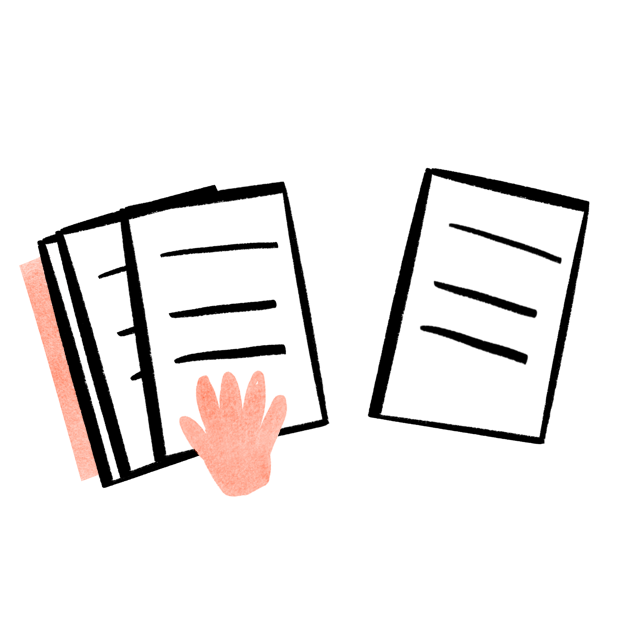
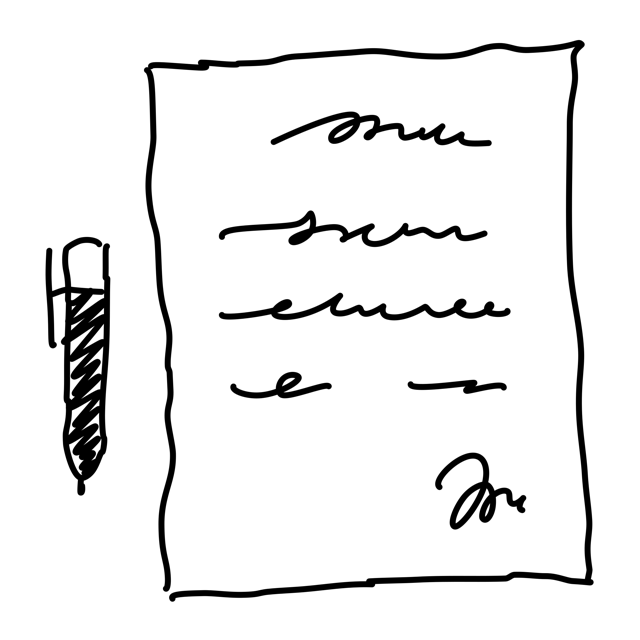
Re-theme to the Seline design system + swap illustrations
Follows DESIGN (2).md — a "quiet analyst's desk" aesthetic: warm-stone
canvas, one cyan accent, Inter throughout, pill-shaped controls, flat
hairline-bordered cards.

Theme (globals.css tokens, unchanged names so components didn't need
touching):
- Canvas #fafaf9, card/hover surfaces white, hairline borders #e8e6e5
- --font-serif (the "Mizan" wordmark + h1 utility) now points to Inter
  Tight instead of Cormorant Garamond; --font-mono now points to Inter
  too, so the small mono-labelled badges/numbers fall in line with the
  design's "only two typefaces" rule without per-component edits
- Display headings dropped to weight 400 (Seline: never bump weight for
  emphasis) with tight negative tracking
- Cyan #3ba6f1 primary CTA (was coral) — pill radius, hover to #3398e1
  (also applied to the 15 buttons that previously used opacity-based hover)
- Card radius 10px, input radius 6px (was 12/8)
- Environment/classification signal colours kept as a functional
  exception (the design is otherwise strictly monochrome-plus-cyan) but
  re-tuned: PUBLIC now rides the brand cyan itself, others stay muted
  stone-adjacent hues

Illustrations — replaced the anthropic-claude-hand-drawn set with Icons8
Ouch's "rough-sketch" style: monochrome hand-sketched ink, no colour
fills, matching Seline's outline-only imagery language. Same 7 file
paths overwritten, so no component code changed; ouch.json updated with
the new ids/headings. The small inline scan icon (InspectingStrip +
[…]

diff --git a/src/app/globals.css b/src/app/globals.css
@@ -1,53 +1,55 @@
 @import "tailwindcss";
 
 @theme {
-  /* Editorial pairing — serif display, humanist sans body, mono for data */
-  --font-serif: "Cormorant Garamond", "Tiempos Headline", Garamond, "Times New Roman", serif;
+  /* Quiet analyst's desk — warm stone canvas, one cyan accent, Inter throughout.
+     Token names stay stable across theme changes; only values move. */
+  --font-serif: "Inter Tight", "Inter", ui-sans-serif, system-ui, sans-serif;  /* display/headings/wordmark */
   --font-sans:  "Inter", -apple-system, BlinkMacSystemFont, "Segoe UI", Roboto, sans-serif;
-  --font-mono:  "JetBrains Mono", ui-monospace, "SF Mono", monospace;
+  --font-mono:  "Inter", -apple-system, BlinkMacSystemFont, "Segoe UI", Roboto, sans-serif;  /* no monospace in this system */
 
-  /* Surfaces — warm tinted cream, never pure white */
-  --color-base:      #faf9f5;  /* page floor */
-  --color-surface:   #f5f0e8;  /* soft bands, section dividers */
-  --color-raised:    #efe9de;  /* cards, chips */
-  --color-overlay:   #fdfcf8;  /* panels, popovers — a hair above canvas */
-  --color-line:      #e6dfd8;  /* hairline on cream */
-  --color-line-soft: #ebe6df;  /* barely-visible divider */
+  /* Surfaces — warm stone, never pure-white canvas */
+  --color-base:      #fafaf9;  /* page floor — stone canvas */
+  --color-surface:   #f5f4f3;  /* soft bands, nav background */
+  --color-raised:    #ffffff;  /* cards, chips, hover fills */
+  --color-overlay:   #ffffff;  /* panels, popovers */
+  --color-line:      #e8e6e5;  /* hairline — the primary structural device */
+  --color-line-soft: #efedeb;  /* barely-visible divider */
 
-  /* Dark navy product surfaces */
-  --color-dark:          #181715;
-  --color-dark-elevated: #252320;
-  --color-dark-soft:     #1f1e1b;
-  --color-on-dark:       #faf9f5;
-  --color-on-dark-soft:  #a09d96;
+  /* Dark inverted surfaces — used sparingly (diode/active-step chrome) */
+  --color-dark:          #1c1917;
+  --color-dark-elevated: #292524;
+  --color-dark-soft:     #24211f;
+  --color-on-dark:       #fafaf9;
+  --color-on-dark-soft:  #a8a29e;
 
-  /* Text — warm ink */
-  --color-ink:       #141413;
-  --color-ink-mid:   #3d3d3a;
-  --color-ink-dim:   #6c6a64;
-  --color-ink-faint: #8e8b82;
+  /* Text — warm stone scale */
+  --color-ink:       #0c0a09;
+  --color-ink-mid:   #44403c;
+  --color-ink-dim:   #78716c;
+  --color-ink-faint: #a8a29e;
 
-  /* Brand — coral. Scarce on buttons, generous on full-bleed callouts. */
-  --color-primary:        #cc785c;
-  --color-primary-active:  #a9583e;
-  --color-primary-soft:   #cc785c1f;
+  /* Brand — a single cyan signal. Scarce: one filled CTA per view. */
+  --color-primary:        #3ba6f1;
+  --color-primary-active:  #3398e1;
+  --color-primary-soft:   #3ba6f11f;
 
-  /* Environment + classification signals — warm-harmonised, kept distinct */
-  --color-cloud:       #4f96a4;            /* PUBLIC · Public Cloud */
-  --color-cloud-soft:  #4f96a41f;
-  --color-official:      #c1863c;          /* OFFICIAL */
-  --color-official-soft: #c1863c1f;
-  --color-onprem:      #5c8b50;            /* CONFIDENTIAL · Sovereign On-Prem */
-  --color-onprem-soft: #5c8b501f;
-  --color-airgap:      #4a4440;            /* SECRET · Air-Gapped Enclave */
-  --color-airgap-soft: #4a44401a;
+  /* Environment + classification signals — functional, not decorative.
+     Cloud rides the brand cyan; the rest stay muted stone-adjacent hues. */
+  --color-cloud:       #3398e1;            /* PUBLIC · Public Cloud */
+  --color-cloud-soft:  #3ba6f11a;
+  --color-official:      #a3814a;          /* OFFICIAL */
+  --color-official-soft: #a3814a1a;
+  --color-onprem:      #64815a;            /* CONFIDENTIAL · Sovereign On-Prem */
+  --color-onprem-soft: #64815a1a;
+  --color-airgap:      #1c1917;            /* SECRET · Air-Gapped Enclave */
+  --color-airgap-soft: #1c19171a;
 
   /* Status */
-  --color-deny:      #c64545;
-  --color-deny-soft: #c645451a;
-  --color-warn:      #c99a1f;
-  --color-warn-soft: #c99a1f1f;
-  --color-ok:        #5c8b50;
+  --color-deny:      #c1443c;
+  --color-deny-soft: #c1443c1a;
+  --color-warn:      #b8902b;
+  --color-warn-soft: #b8902b1a;
+  --color-ok:        #64815a;
 }
 
 @layer base {
@@ -57,15 +59,15 @@
     font-family: var(--font-sans);
     -webkit-font-smoothing: antialiased;
   }
-  /* Serif display — weight 500, negative tracking. The editorial voice. */
+  /* Display — weight 400, tight negative tracking. Authority through restraint. */
   h1, h2, h3, .mz-display {
     font-family: var(--font-serif);
-    font-weight: 500;
-    letter-spacing: -0.015em;
+    font-weight: 400;
+    letter-spacing: -0.02em;
   }
   ::-webkit-scrollbar { width: 8px; height: 8px; }
-  ::-webkit-scrollbar-thumb { background: #d9d0c4; border-radius: 4px; }
-  ::-webkit-scrollbar-thumb:hover { background: #c7bcac; }
+  ::-webkit-scrollbar-thumb { background: #d6d3d1; border-radius: 4px; }
+  ::-webkit-scrollbar-thumb:hover { background: #c2beba; }
   ::-webkit-scrollbar-track { background: transparent; }
   ::selection { background: var(--color-primary-soft); }
 }
@@ -75,47 +77,48 @@
   .mz-label {
     font-family: var(--font-mono);
     font-size: 10px;
-    letter-spacing: 0.14em;
+    font-weight: 500;
+    letter-spacing: 0.1em;
     text-transform: uppercase;
     color: var(--color-ink-dim);
   }
   .mz-panel {
     background: var(--color-overlay);
     border: 1px solid var(--color-line);
-    border-radius: 12px;
+    border-radius: 10px;
   }
   .mz-field {
-    background: var(--color-base);
+    background: var(--color-raised);
     border: 1px solid var(--color-line);
-    border-radius: 8px;
+    border-radius: 6px;
     color: var(--color-ink);
     outline: none;
   }
   .mz-field:focus {
     border-color: var(--color-primary);
-    box-shadow: 0 0 0 3px var(--color-primary-soft);
+    box-shadow: 0 0 0 2px var(--color-primary-soft);
   }
-  /* Coral primary CTA */
+  /* Cyan primary CTA — pill-shaped, the one filled chromatic element */
   .mz-btn {
     background: var(--color-primary);
     color: #fff;
-    border-radius: 8px;
+    border-radius: 9999px;
     font-weight: 500;
     transition: background-color 0.15s ease;
   }
   .mz-btn:hover { background: var(--color-primary-active); }
   .mz-btn:active { background: var(--color-primary-active); }
   .mz-btn:disabled {
-    background: var(--color-primary-disabled, #e6dfd8);
-    color: var(--color-ink-dim);
+    background: var(--color-line);
+    color: var(--color-ink-faint);
     cursor: not-allowed;
   }
-  /* Elevation for popovers — warm, minimal */
+  /* Elevation for popovers — flat card + soft lift, no heavy shadow */
   .mz-pop {
     background: var(--color-overlay);
     border: 1px solid var(--color-line);
-    box-shadow: 0 1px 3px rgba(20, 20, 19, 0.08),
-                0 12px 32px rgba(20, 20, 19, 0.12);
+    box-shadow: 0 4px 16px rgba(12, 10, 9, 0.06),
+                0 1px 2px rgba(12, 10, 9, 0.04);
   }
 }
 

diff --git a/src/components/admin/PolicyTable.tsx b/src/components/admin/PolicyTable.tsx
@@ -48,7 +48,7 @@ export default function PolicyTable({ policies, signals }: { policies: PolicyVie
           type="button"
           onClick={() => setEditing("new")}
           className="rounded-full bg-primary px-3.5 py-1.5 font-mono text-[11px] font-semibold tracking-[0.08em]
-                     text-white transition hover:opacity-90"
+                     text-white transition hover:bg-primary-active"
         >
           + NEW RULE
         </button>
@@ -214,7 +214,7 @@ function PolicyForm({ initial, signals, onDone, defaultPriority }: {
       <div className="flex items-center gap-3 pt-1">
         <button type="submit" disabled={pending}
                 className="rounded-full bg-primary px-4 py-1.5 font-mono text-[11px] font-semibold tracking-[0.08em]
-                           text-white transition hover:opacity-90 disabled:opacity-60">
+                           text-white transition hover:bg-primary-active disabled:opacity-60">
           {pending ? "SAVING…" : "SAVE RULE"}
         </button>
         <button type="button" onClick={onDone}

diff --git a/src/app/login/page.tsx b/src/app/login/page.tsx
@@ -24,7 +24,7 @@ export default async function LoginPage() {
         />
         <div className="relative">
           <div className="flex items-baseline gap-3">
-            <span className="font-serif text-[30px] font-medium tracking-tight text-ink">Mizan</span>
+            <span className="font-serif text-[30px] font-normal tracking-tight text-ink">Mizan</span>
             <span className="mz-label">Hybrid Deployment Orchestrator</span>
           </div>
           <p className="mt-8 max-w-md text-[15px] leading-relaxed text-ink-mid">
@@ -63,7 +63,7 @@ export default async function LoginPage() {
       <section className="flex items-center justify-center p-6 sm:p-12">
         <div className="w-full max-w-[380px]">
           <div className="lg:hidden mb-10 flex items-baseline gap-3">
-            <span className="font-serif text-[26px] font-medium tracking-tight">Mizan</span>
+            <span className="font-serif text-[26px] font-normal tracking-tight">Mizan</span>
             <span className="mz-label">Orchestrator</span>
           </div>
 

diff --git a/src/components/projects/NewProjectButton.tsx b/src/components/projects/NewProjectButton.tsx
@@ -21,7 +21,7 @@ export default function NewProjectButton() {
         type="button"
         onClick={() => setOpen(true)}
         className="rounded-full bg-primary px-4 py-2 font-mono text-[11px] font-semibold tracking-[0.08em]
-                   text-white transition hover:opacity-90"
+                   text-white transition hover:bg-primary-active"
       >
         + NEW PROJECT
       </button>
@@ -70,7 +70,7 @@ export default function NewProjectButton() {
               </button>
               <button type="submit" disabled={pending}
                       className="rounded-full bg-primary px-4 py-1.5 font-mono text-[11px] font-semibold tracking-[0.08em]
-                                 text-white transition hover:opacity-90 disabled:opacity-60">
+                                 text-white transition hover:bg-primary-active disabled:opacity-60">
                 {pending ? "CREATING…" : "CREATE PROJECT"}
               </button>
             </div>

diff --git a/src/components/projects/ProjectKnowledge.tsx b/src/components/projects/ProjectKnowledge.tsx
@@ -230,7 +230,7 @@ function Instructions({ projectId, instructions }: { projectId: string; instruct
           <div className="flex items-center gap-2">
             <button type="submit" disabled={pending}
                     className="rounded-full bg-primary px-3.5 py-1 font-mono text-[10.5px] font-semibold tracking-[0.08em]
-                               text-white transition hover:opacity-90 disabled:opacity-60">
+                               text-white transition hover:bg-primary-active disabled:opacity-60">
               {pending ? "SAVING…" : "SAVE"}
             </button>
             <button type="button" onClick={() => setEditing(false)}

diff --git a/src/components/projects/ProjectHeader.tsx b/src/components/projects/ProjectHeader.tsx
@@ -24,7 +24,7 @@ export default function ProjectHeader({ projectId, name, description }: {
         <div className="flex items-center gap-2">
           <button type="submit" disabled={pending}
                   className="rounded-full bg-primary px-4 py-1.5 font-mono text-[11px] font-semibold tracking-[0.08em]
-                             text-white transition hover:opacity-90 disabled:opacity-60">
+                             text-white transition hover:bg-primary-active disabled:opacity-60">
             {pending ? "SAVING…" : "SAVE"}
           </button>
           <button type="button" onClick={() => setEditing(false)}

diff --git a/src/components/MessageList.tsx b/src/components/MessageList.tsx
@@ -63,7 +63,7 @@ function Empty({ onSuggest }: { onSuggest?: (text: string) => void }) {
         className="mz-anim-float mb-5 h-[132px] w-[132px] object-contain opacity-95 select-none"
         draggable={false}
       />
-      <div className="font-serif text-[34px] font-medium tracking-tight text-ink">Mizan</div>
+      <div className="font-serif text-[34px] font-normal tracking-tight text-ink">Mizan</div>
       <p className="mt-4 max-w-[420px] text-[14px] leading-relaxed text-ink-dim">
         Describe what you need. Every request is inspected on sovereign infrastructure
         before it is allowed to reach a model.

diff --git a/src/app/layout.tsx b/src/app/layout.tsx
@@ -13,7 +13,7 @@ export default function RootLayout({ children }: { children: React.ReactNode }) 
         <link rel="preconnect" href="https://fonts.googleapis.com" />
         <link rel="preconnect" href="https://fonts.gstatic.com" crossOrigin="" />
         <link
-          href="https://fonts.googleapis.com/css2?family=Cormorant+Garamond:wght@500;600&family=Inter:wght@400;500;600&family=JetBrains+Mono:wght@400;500;600&display=swap"
+          href="https://fonts.googleapis.com/css2?family=Inter+Tight:wght@400;500&family=Inter:wght@400;500;600&display=swap"
           rel="stylesheet"
         />
       </head>

diff --git a/src/components/admin/DemoRunner.tsx b/src/components/admin/DemoRunner.tsx
@@ -96,7 +96,7 @@ export default function DemoRunner({ scenarios }: { scenarios: ScenarioView[] })
             onClick={run}
             disabled={running}
             className="rounded-full bg-primary px-4 py-2 font-mono text-[11px] font-semibold tracking-[0.08em]
-                       text-white transition hover:opacity-90 disabled:cursor-wait disabled:opacity-60"
+                       text-white transition hover:bg-primary-active disabled:cursor-wait disabled:opacity-60"
           >
             {running ? "RUNNING…" : "▶ RUN DEMO SEQUENCE"}
           </button>

diff --git a/src/app/login/LoginForm.tsx b/src/app/login/LoginForm.tsx
@@ -10,8 +10,8 @@ function Submit() {
     <button
       type="submit"
       disabled={pending}
-      className="mt-6 w-full rounded-lg bg-primary px-4 py-2.5 font-mono text-[12px] font-semibold
-                 tracking-[0.12em] text-base transition hover:opacity-90
+      className="mt-6 w-full rounded-full bg-primary px-4 py-2.5 text-[13px] font-medium
+                 tracking-[0.06em] text-white transition hover:bg-primary-active
                  disabled:cursor-not-allowed disabled:opacity-60"
     >
       {pending ? "VERIFYING…" : "AUTHENTICATE"}

diff --git a/src/components/admin/PolicySimulator.tsx b/src/components/admin/PolicySimulator.tsx
@@ -46,7 +46,7 @@ export default function PolicySimulator({ signals }: { signals: Array<{ code: st
           </label>
           <button type="submit" disabled={pending}
                   className="rounded-full bg-primary px-4 py-2 font-mono text-[11px] font-semibold tracking-[0.08em]
-                             text-white transition hover:opacity-90 disabled:opacity-60">
+                             text-white transition hover:bg-primary-active disabled:opacity-60">
             {pending ? "EVALUATING…" : "EVALUATE"}
           </button>
         </div>

diff --git a/src/components/projects/ProjectStart.tsx b/src/components/projects/ProjectStart.tsx
@@ -33,7 +33,7 @@ export default function ProjectStart({ projectId, projectName }: { projectId: st
           onClick={start}
           disabled={!value.trim()}
           className="rounded-full bg-primary px-4 py-1.5 font-mono text-[11px] font-semibold tracking-[0.10em]
-                     text-white transition hover:opacity-90 disabled:cursor-not-allowed disabled:opacity-30"
+                     text-white transition hover:bg-primary-active disabled:cursor-not-allowed disabled:opacity-30"
         >
           START CHAT
         </button>
